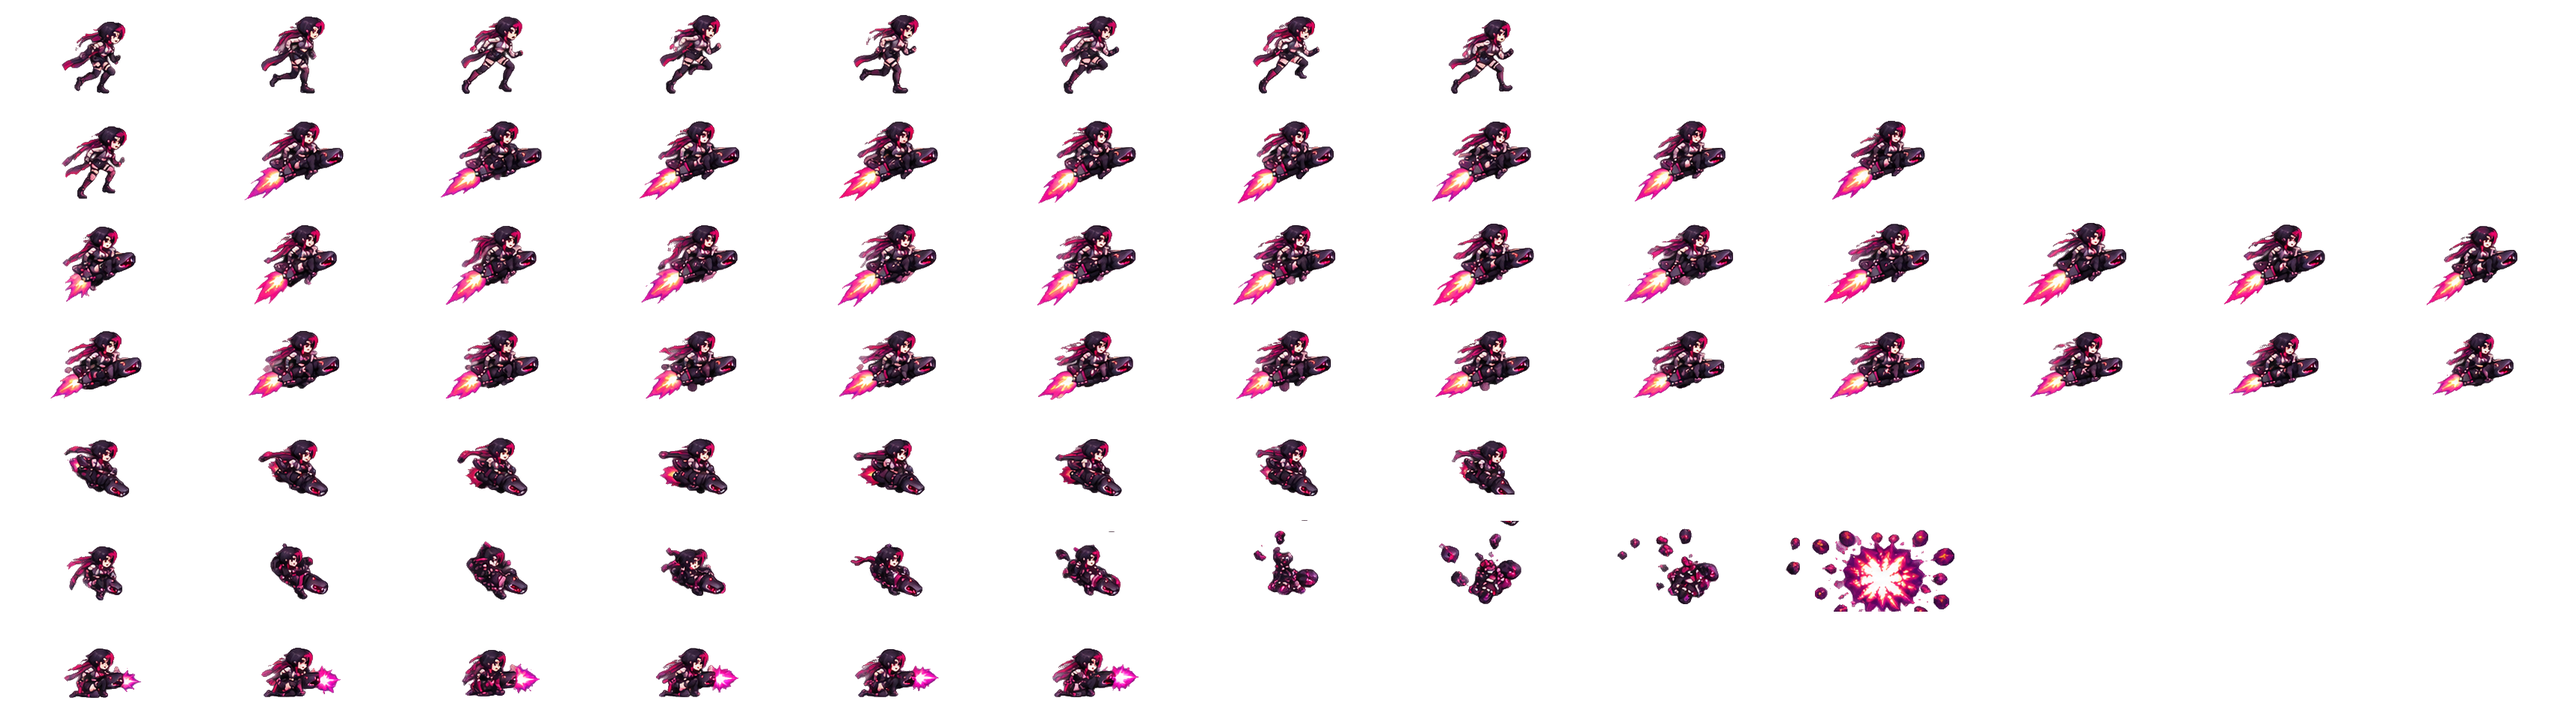
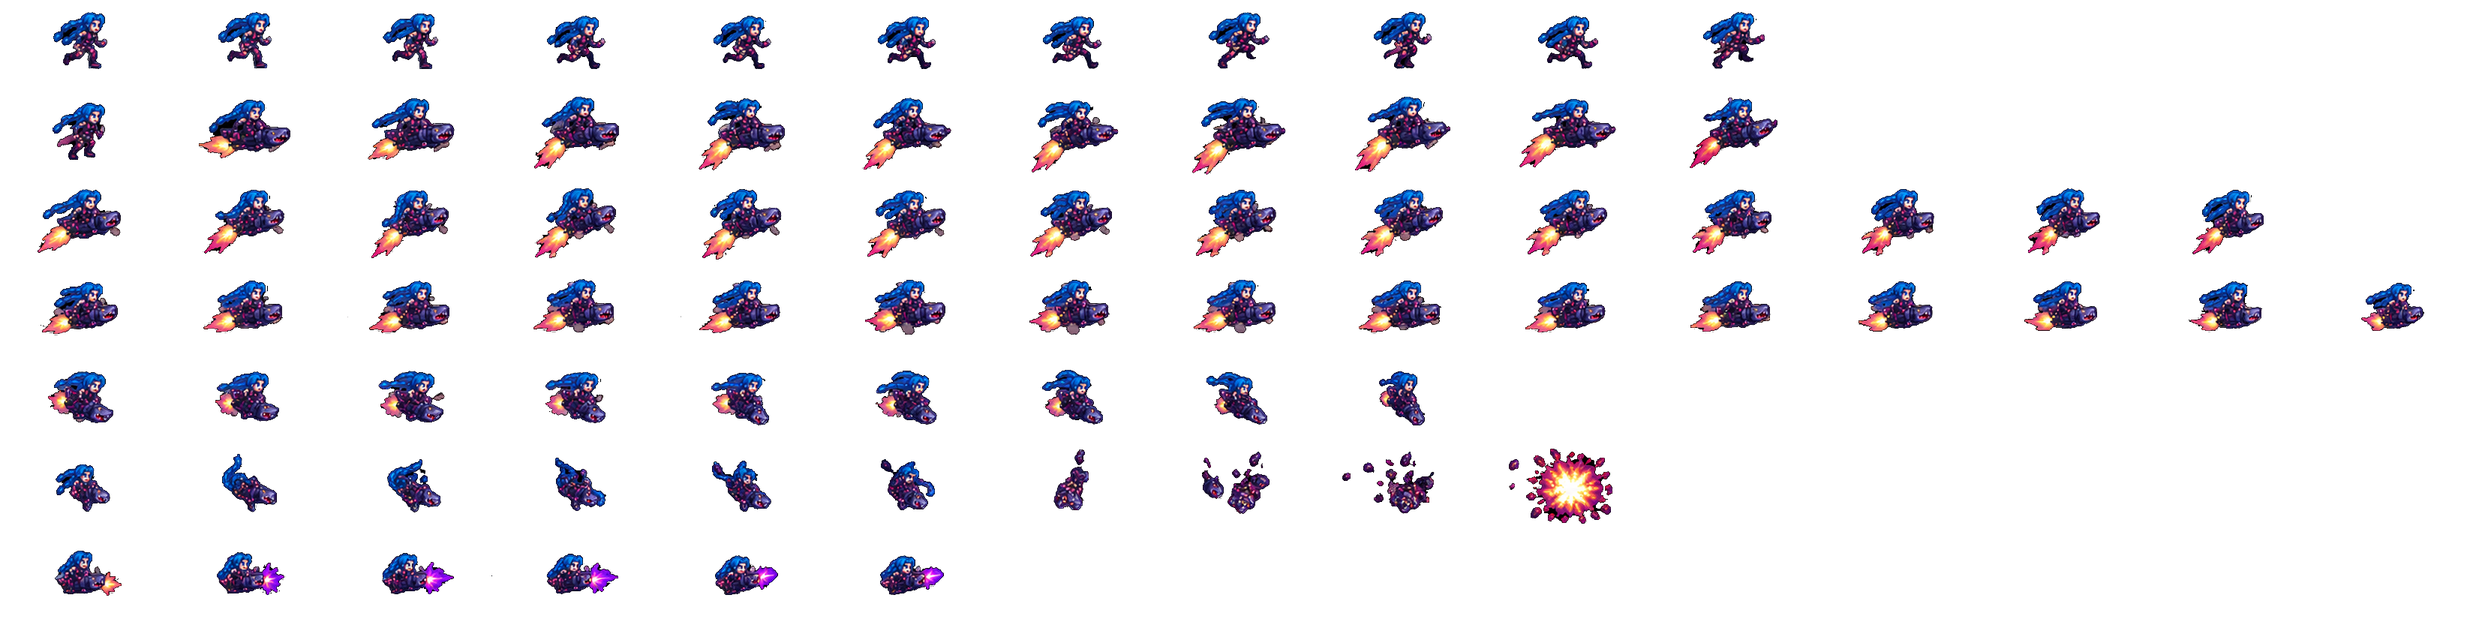
Slice Jinx from her sheet with more frames
Back to Jinx after the mercenary: her HUD faces are restored.

diff --git a/tools/slice_sheets.py b/tools/slice_sheets.py
@@ -88,16 +88,16 @@ CHARACTERS = {
         "hover": animation((0, 349, 500, 497), 12),
         "fall":  animation((0, 184, 500, 343), 1, frames=[1]),
     }),
-    # A mercenary on a shark-nosed rocket, from ChatGPT; a soft glow all around every frame
-    "jinx": ("sources/mercenary.png", (40, 6, 104, 70), {
-        "run":     animation((0, 0, 1200, 126), 12, ground=True),
-        "takeoff": animation((0, 128, 1420, 258), 16, mode="once", splits=[1140]),
-        "rise":    animation((0, 260, 1960, 390), 12),
-        "hover":   animation((0, 390, 1960, 498), 14),
-        "fall":    animation((0, 498, 1200, 594), 12),
-        "death":   animation((0, 594, 1560, 708), 10, mode="hide"),
-        "attack":  animation((0, 708, 900, 802), 16, mode="once", effects_ahead=True),
-    }, {"min_alpha": 90}),
+    # On her shark rocket, drawn on black: more frames than her first sheet
+    "jinx": ("sources/jinx.png", (44, 12, 98, 66), {
+        "run":     animation((0, 8, 1340, 100), 14, ground=True),
+        "takeoff": animation((0, 118, 1620, 236), 16, mode="once"),
+        "rise":    animation((0, 246, 1850, 364), 12),
+        "hover":   animation((0, 366, 1958, 456), 14),
+        "fall":    animation((0, 468, 1200, 568), 12),
+        "death":   animation((0, 574, 1360, 692), 10, mode="hide"),
+        "attack":  animation((0, 704, 860, 790), 16, mode="once", effects_ahead=True),
+    }, {"key_black": True}),
     "mikasa": ("sources/mikasa.png", (1140, 925, 1212, 1000), {
         "run":     animation((655, 40, 1240, 144), 12, ground=True),
         "takeoff": animation((0, 182, 640, 308), 16, mode="once"),
@@ -264,7 +264,7 @@ EXHAUST = {"mikasa": "0 240 255", "jinx": "255 40 200", "lucy": "190 70 255", "w
 # No jetpack, so no flames: carried by a headless bat dripping blood from its neck (players.cpp)
 DRIPS = {"dirtybastrd"}
 # Faces for the HUD, Doom style: (source, columns, rows) of an evenly laid grid of heads, read by game_hud.cpp
-FACES = {"mikasa": ("sources/mikasa_faces.png", 9, 6)}
+FACES = {"mikasa": ("sources/mikasa_faces.png", 9, 6), "jinx": ("sources/jinx_faces.png", 9, 6)}
 
 
 def slice_faces(source, columns, rows, out):

diff --git a/CHANGELOG.md b/CHANGELOG.md
@@ -34,7 +34,7 @@ taken from this file. Players on different versions can't play together: update 
   instead of a beam across the whole screen. Leave the row as before, or get past the bullet: Wraith can
   Blink through it.
 - Eddies have a new look, a spinning coin drawn by Alex.
-- Jinx has a new look: a mercenary riding a shark-nosed rocket. Her HUD face is her portrait for now.
+- Jinx has a new sprite sheet with more frames: her run, take-off and flight are smoother.
 - Dante flies on demon wings instead of a jetpack (a new sprite sheet from Alex); they fold away when he runs.
 
 ### Fixes
